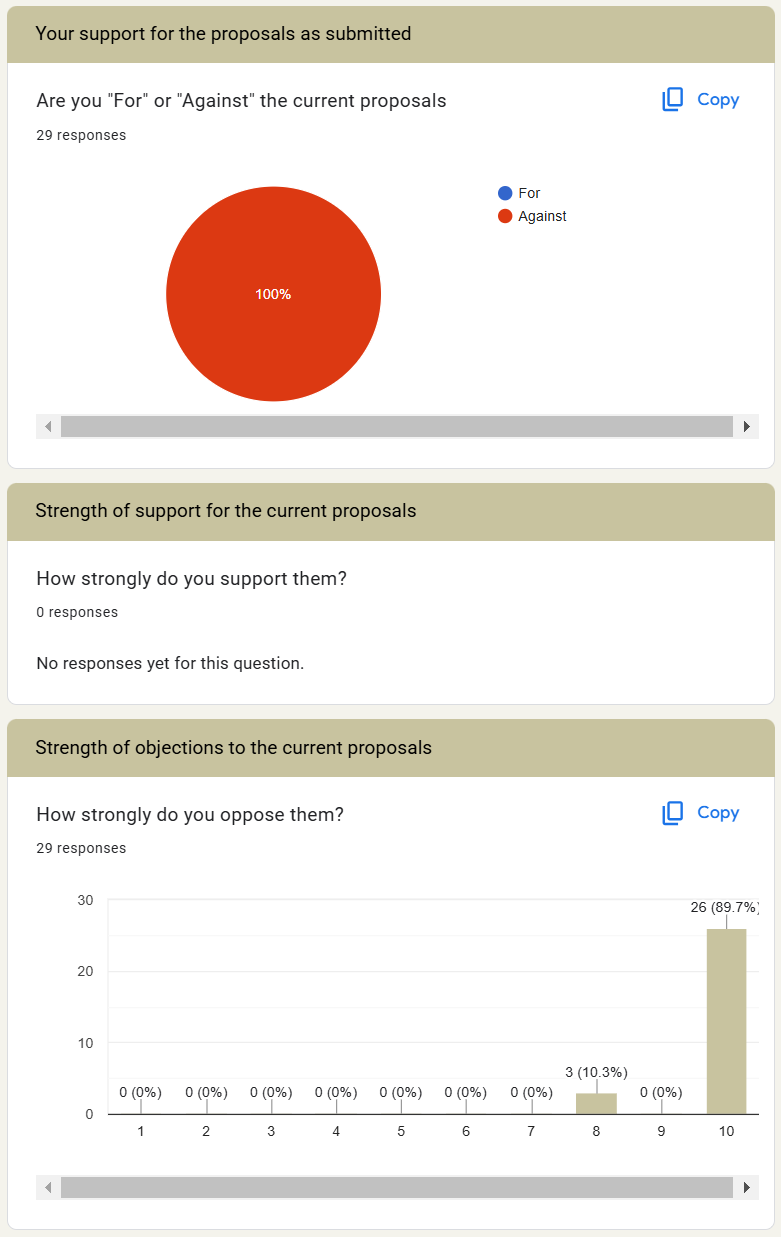
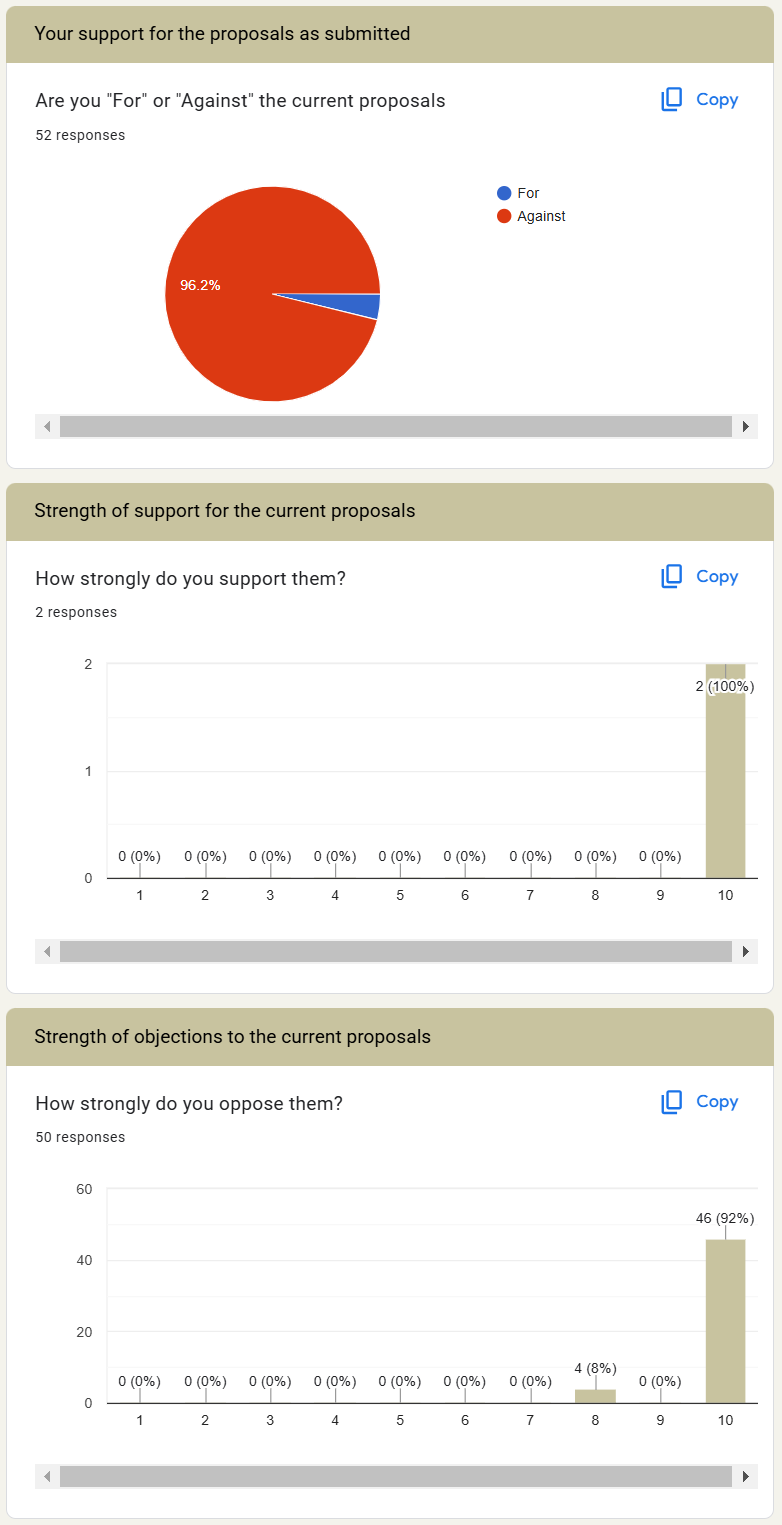
Update community form stats

Changed region(s): [[0.0, 0.0, 1.0, 0.983], [0.0615, 0.9523, 0.9526, 0.983], [0.6146, 0.1229, 0.7375, 0.1843]]

diff --git a/index.html b/index.html
@@ -223,9 +223,10 @@
                             sentiment is clear:</p>
                         <div class="row">
                             <div class="col-12 text-center">
-                                <img src="images/community-response.png" width="781" height="1237" border="0" />
+                                <img src="images/community-response.png" style="max-width:100%; height:auto; border:0; margin:2rem 0;">
                             </div>
                         </div>
+                        <p>We'll give you 1 guess who the positive responses are from...</p>
                         <div class="text-center">
                             <button class="btn btn-lg btn-danger mt-3 fw-bold" onclick="window.open('https://forms.gle/Uw6jD8jMhEw5VR2q9', '_blank')">Register Your Objection (or support)</button>
                         </div>
